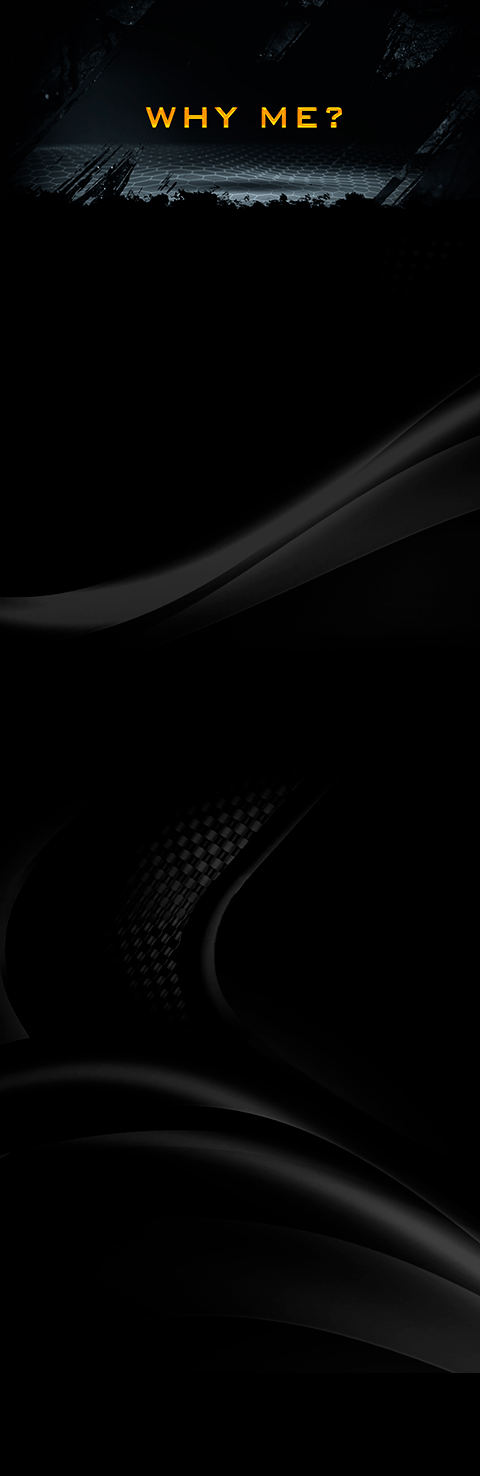
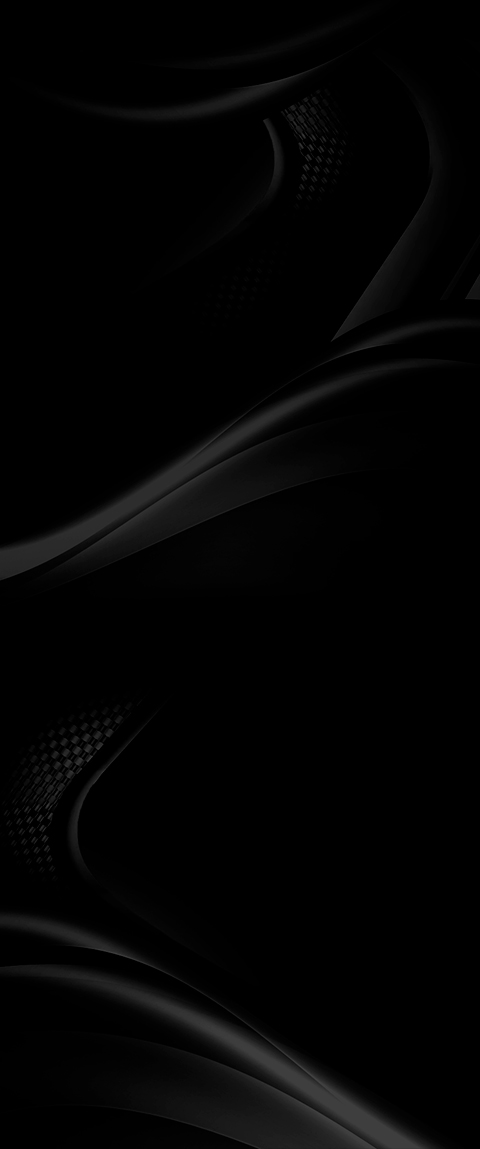
Portfolio - image

diff --git a/css/style.css b/css/style.css
@@ -53,21 +53,6 @@
   display: none;
 }
 
-@media (max-width: 480px) {
-  .page-header .nav .nav-list li > a {
-    display: none;
-  }
-  .page-header .nav .button-menu__item {
-    display: block;
-  }
-  .page-header .nav .nav-logo {
-    position: absolute;
-    left: 50%;
-    -webkit-transform: translateX(-50%);
-            transform: translateX(-50%);
-  }
-}
-
 .about-me {
   text-align: center;
   margin-top: 800px;
@@ -149,10 +134,19 @@
 body {
   width: 1170px;
   margin: auto;
+  font-family: Prototype;
+}
+
+.body-index {
   background-image: url(../../images/background.jpg);
   background-repeat: no-repeat;
   background-size: cover;
-  font-family: Prototype;
+}
+
+.body-portfolio {
+  background-image: url(../../images/background.png);
+  background-repeat: no-repeat;
+  background-size: cover;
 }
 
 a {
@@ -162,14 +156,4 @@ a {
 * {
   margin: 0;
   padding: 0;
-}
-
-@media (max-width: 480px) {
-  body {
-    max-width: 480px;
-    background-image: url(../../images/background-image.jpg);
-    background-repeat: no-repeat;
-    background-size: cover;
-    background-position: center center;
-  }
 }

diff --git a/scss/standarts/_scaffolding.scss b/scss/standarts/_scaffolding.scss
@@ -1,10 +1,17 @@
 body{
     width: 1170px;
     margin: auto;
+    font-family: Prototype;
+}
+.body-index{
     background-image: url(../../images/background.jpg);
     background-repeat: no-repeat;
     background-size: cover;
-    font-family: Prototype;
+}
+.body-portfolio{
+    background-image: url(../../images/background.png);
+    background-repeat: no-repeat;
+    background-size: cover;
 }
 a{
     text-decoration: none;
@@ -12,15 +19,4 @@ a{
 *{
     margin: 0;
     padding: 0;
-}
-@media (max-width: 480px){
-    body{
-       max-width: 480px;
-       background-image: url(../../images/background-image.jpg); 
-       background-repeat: no-repeat;
-       background-size: cover;
-       background-position: center center;
-       
-    }
-
 }

diff --git a/index.html b/index.html
@@ -6,12 +6,10 @@
     <title>ArtiGraphics studio</title>
     <link rel="stylesheet" href="css/style.css">
 </head>
-<body>
+<body class="body-index">
     <header class="page-header">
         <nav class="nav">
-            <div class="button-menu">
-                <span class="button-menu__item"><img src="images/icon.svg" alt=""></span>
-            </div>
+            
             <ul class="nav-list">
                 <li class="nav-list__item nav-logo">
                     <img src="images/logo.png" class="nav-logo__item" width="320" height="85" alt="logotype">

diff --git a/scss/blocks/_header.scss b/scss/blocks/_header.scss
@@ -39,20 +39,3 @@
         }
     } 
 }
-@media (max-width:480px){
-    .page-header{
-        .nav{
-            .nav-list li > a{
-                display: none;
-            }
-            .button-menu__item{
-                display: block;
-            }
-            .nav-logo{
-                position: absolute;
-                left: 50%;
-                transform: translateX(-50%);
-            }
-        }
-    }
-}

diff --git a/pages/portfolio.html b/pages/portfolio.html
@@ -5,7 +5,7 @@
     <title>Porfolio ArtiGraphics</title>
     <link rel="stylesheet" href="../css/style.css">
 </head>
-<body>
+<body class="body-portfolio">
     <header class="page-header">
         <nav class="nav">
             <ul class="nav-list">

diff --git a/scss/blocks/_speed-arts.scss b/scss/blocks/_speed-arts.scss
@@ -6,9 +6,10 @@
         font-weight: normal;
         color: #ffad00;
         font-size: 25px;
-   }
+      }
    .speed-arts__iframe{
        width: 100%;
        height: 700px;
+       
     }
 }
